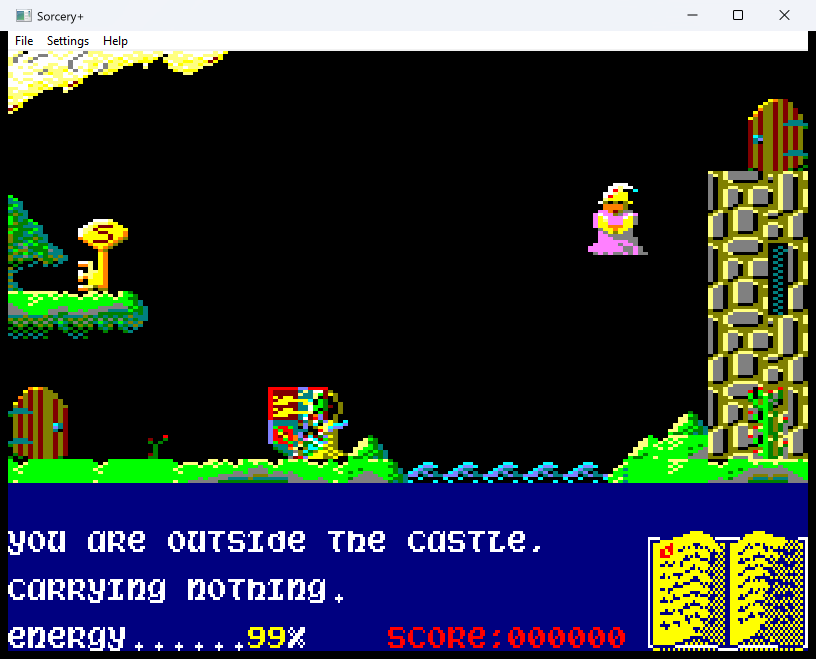
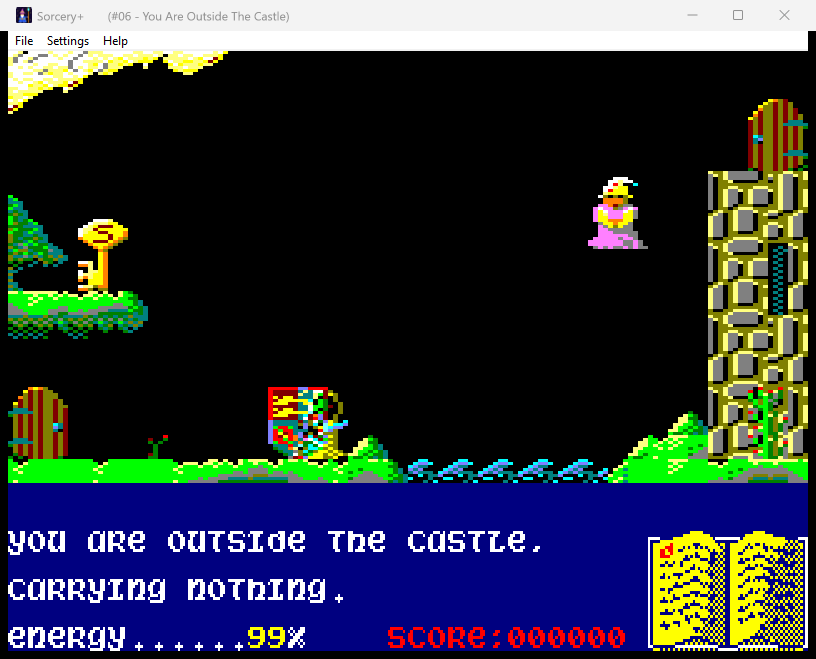
to show the current room number and room name in the windows title bar

diff --git a/native/embed_assets.py b/native/embed_assets.py
@@ -2,6 +2,7 @@
 
 import argparse
 import json
+import re
 from pathlib import Path
 
 
@@ -32,7 +33,7 @@ def write_bytes(file, name, data):
     file.write("};\n\n")
 
 
-def generate(assets, guide, output, atlas_dir, edition):
+def generate(assets, guide, output, atlas_dir, edition, room_data):
     blob = bytearray()
     entries = []
     sizes = {**ASSET_SIZES, "CODE-decoded-7000.bin": edition["code_size"], "SMESSC.BIN": edition["message_size"]}
@@ -47,6 +48,7 @@ def generate(assets, guide, output, atlas_dir, edition):
     guide_bytes = guide_text.replace("\n", "\r\n").encode("utf-8")
     if not guide_text.strip() or "\0" in guide_text or len(guide_bytes) > MAX_GUIDE_BYTES:
         raise ValueError(f"{guide}: expected 1–{MAX_GUIDE_BYTES} bytes of UTF-8 launch guide text without NULs")
+    rooms = json.loads(room_data.read_text(encoding="utf-8"))["rooms"] if room_data else []
 
     with output.open("w", encoding="ascii", newline="\n") as file:
         file.write("/* Generated from the local Sorcery+ disk assets. Do not edit. */\n")
@@ -58,6 +60,15 @@ def generate(assets, guide, output, atlas_dir, edition):
             if atlas_dir and (not data.startswith(b"<!doctype html>") or len(data) > 2_000_000):
                 raise ValueError(f"{page}: expected a generated offline HTML page")
             write_bytes(file, name, data)
+        file.write("static const wchar_t *const room_labels[] = {\n")
+        for room in rooms:
+            # Match the room panel's title casing and use its public room number.
+            title = re.sub(r"(^|[ .-])([a-z])", lambda match: match[0].upper(), room["title"].lower())
+            label = f"#{room['number']:02d} - {title}"
+            file.write(f"    [0x{room['id']}] = L{json.dumps(label)},\n")
+        if not rooms:
+            file.write("    NULL,\n")
+        file.write("};\n\n")
         file.write("static const struct {\n    const char *name;\n    size_t offset, length;\n} assets[] = {\n")
         file.writelines(entries)
         file.write("""};
@@ -91,6 +102,11 @@ const unsigned char *embedded_atlas_page(bool guide, size_t *size)
     *size = guide ? sizeof(room_guide) : sizeof(room_atlas);
     return guide ? room_guide : room_atlas;
 }
+
+const wchar_t *embedded_room_label(unsigned room)
+{
+    return room < sizeof(room_labels) / sizeof(room_labels[0]) ? room_labels[room] : NULL;
+}
 """)
 
 
@@ -103,9 +119,12 @@ if __name__ == "__main__":
     mode = parser.add_mutually_exclusive_group(required=True)
     mode.add_argument("--atlas-dir", type=Path)
     mode.add_argument("--capture-only", action="store_true")
+    parser.add_argument("--room-data", type=Path)
     args = parser.parse_args()
+    if args.atlas_dir and not args.room_data:
+        parser.error("--room-data is required when embedding the atlas")
     try:
         edition = json.loads(args.edition_info.read_text(encoding="ascii"))
-        generate(args.assets, args.guide, args.output, args.atlas_dir, edition)
+        generate(args.assets, args.guide, args.output, args.atlas_dir, edition, args.room_data)
     except (OSError, ValueError) as error:
         parser.error(str(error))

diff --git a/native/machine.c b/native/machine.c
@@ -545,7 +545,7 @@ static void restore_snapshot(const Snapshot *snapshot) {
 
 static bool gameplay_active(void) { return word(SORCERY_FRAME_TABLE_POINTER)==SORCERY_GAMEPLAY_FRAME_TABLE; }
 static bool player_game_active(void) { return gameplay_active()&&!(rd(0x6851)&0x80); }
-static void update_live_atlas(bool force);
+static void update_room_state(bool force);
 
 static void return_to_title(void) {
     // The clean start has the original code and overlays, before any quest changes.
@@ -554,6 +554,7 @@ static void return_to_title(void) {
     restore_snapshot(&title_start);
     memcpy(scores,current_scores,sizeof(scores));
     memset(headless_keys,0xff,sizeof(headless_keys));
+    update_room_state(false);
 }
 
 static void finish_game_frame(void) {
@@ -613,16 +614,18 @@ static bool profile_data_path(wchar_t *path,const wchar_t *filename,bool create)
         swprintf(path,PROFILE_PATH_CAPACITY,L"%lsprofiles\\%ls\\%ls",base_path,profile_name,filename)>=0;
 }
 
-static void update_live_atlas(bool force) {
+static void update_room_state(bool force) {
     static bool active;
     static uint64_t next_update;
     static wchar_t path[PROFILE_PATH_CAPACITY];
     if(headless) return;
     if(!player_game_active()) {
+        display_set_room_title(-1);
         if(active) room_atlas_clear();
         active=false;
         return;
     }
+    display_set_room_title(rd(SORCERY_ROOM_NUMBER));
     if(!active||force) {
         if(!profile_data_path(path,L"Atlas-Live.json",true)) path[0]=L'\0';
         active=true;
@@ -703,7 +706,7 @@ static bool load_progress_from(const wchar_t *path) {
         sound_envelope(true,index,ram+0xa700+16*index);
     }
     report_progress("Loaded");
-    update_live_atlas(true);
+    update_room_state(true);
     return true;
 }
 static bool load_progress(void) {
@@ -788,7 +791,7 @@ static void new_frame(void) {
     else music_stop();
     sound_frame();
     if(!gameplay_active()) completed_game_frame=false;
-    if(!player_game_active()) update_live_atlas(false);
+    if(!player_game_active()) update_room_state(false);
     flyback_pending=true;
     if(headless||injected_start||move_begin) {
         memset(headless_keys,0xff,sizeof(headless_keys));
@@ -831,7 +834,7 @@ static void game_step(void) {
     // $74B9 follows the gameplay update's sprite and HUD writes.
     const bool room_ready = pc==SORCERY_ROOM_READY||(pc==SORCERY_GAME_LOOP&&!completed_game_frame)||pc==SORCERY_DOOR_DESTINATION;
     if(room_ready||door_frame_finished(pc)) finish_game_frame();
-    if(room_ready) update_live_atlas(false);
+    if(room_ready) update_room_state(false);
     last[last_index++&31]=pc;
     if(trace&&steps<70) fprintf(stderr,"$%04X AF=%04X BC=%04X DE=%04X HL=%04X\n",pc,AF,BC,DE,HL);
     ++steps;

diff --git a/native/presentation.c b/native/presentation.c
@@ -7,6 +7,7 @@
 #include "presentation.h"
 #include "app_icon.h"
 #include "audio_dialog.h"
+#include "embedded_assets.h"
 #include "help_dialog.h"
 #include "keyboard_dialog.h"
 #include "room_atlas.h"
@@ -53,6 +54,7 @@ static const WCHAR *const bindingNames[ACTION_COUNT] = {
 };
 
 static HWND window;
+static int titledRoom = -1;
 static HMENU windowMenu;
 static HMENU displayMenu;
 static WINDOWPLACEMENT windowedPlacement = { .length = sizeof(WINDOWPLACEMENT) };
@@ -559,6 +561,7 @@ bool display_open(void)
         windowMenu = NULL;
         return false;
     }
+    titledRoom = -1;
     controllerLibrary = LoadLibraryExW(L"xinput1_4.dll", NULL, LOAD_LIBRARY_SEARCH_SYSTEM32);
     if (controllerLibrary) {
         getControllerState = (XInputStateFunction)(void *)GetProcAddress(controllerLibrary, "XInputGetState");
@@ -567,6 +570,18 @@ bool display_open(void)
     ShowWindow(window, SW_SHOW);
     if (startFullscreen) toggleFullscreen();
     return true;
+}
+
+void display_set_room_title(int room)
+{
+    if (!window || room == titledRoom) return;
+    const wchar_t *label = room < 0 ? NULL : embedded_room_label((unsigned)room);
+    wchar_t title[256];
+    if (label && SUCCEEDED(StringCchPrintfW(title, ARRAYSIZE(title), L"%ls       (%ls)", windowTitle, label))) {
+        if (SetWindowTextW(window, title)) titledRoom = room;
+    } else if (SetWindowTextW(window, windowTitle)) {
+        titledRoom = -1;
+    }
 }
 
 bool display_pump(void)

diff --git a/native/embedded_assets.h b/native/embedded_assets.h
@@ -8,5 +8,6 @@ bool embedded_asset_read(const char *name, void *bytes, size_t capacity, size_t 
 // UTF-8 with Windows line endings. Size, when requested, excludes the NUL.
 const char *embedded_launch_guide(size_t *size);
 const unsigned char *embedded_atlas_page(bool guide, size_t *size);
+const wchar_t *embedded_room_label(unsigned room);
 
 #endif

diff --git a/native/presentation.h b/native/presentation.h
@@ -17,6 +17,7 @@ enum {
 };
 
 bool display_open(void);
+void display_set_room_title(int room);
 HWND display_owner(void);
 bool display_pump(void);
 void display_frame(const uint8_t *vram, const uint8_t *inks,

diff --git a/README.md b/README.md
@@ -10,7 +10,7 @@ Sorcery+ is a two-chapter adventure where you fly between rooms, rescue captured
 
 | Title screen | Outside the Castle |
 | --- | --- |
-| ![Sorcery+ title screen in the native Windows build](docs/screenshots/title.png) | ![The player flying outside the castle during gameplay](docs/screenshots/gameplay.png) |
+| ![Sorcery+ title screen in the native Windows build](docs/screenshots/title.png) | ![Gameplay outside the castle with atlas room #06 in the Windows title bar](docs/screenshots/gameplay.png) |
 
 ## Compatible disk
 
@@ -89,6 +89,8 @@ Preferences, saves, high scores, and atlas notes are stored under `profiles` bes
 ## Room atlas
 
 Choose **Help → Room Atlas** to explore all 75 rooms in your browser. Keep the game open while using the atlas.
+
+During gameplay, the Windows title bar shows the current room's atlas number and its name in the game's language. For example, the UK build shows **Sorcery+ (#34 - You Are At The Tunnel Mouth)**.
 
 Room and item names come from the disk used to build the game. To include both languages, pass a compatible disk from the other edition with `-AtlasLanguageDisk`:
 
